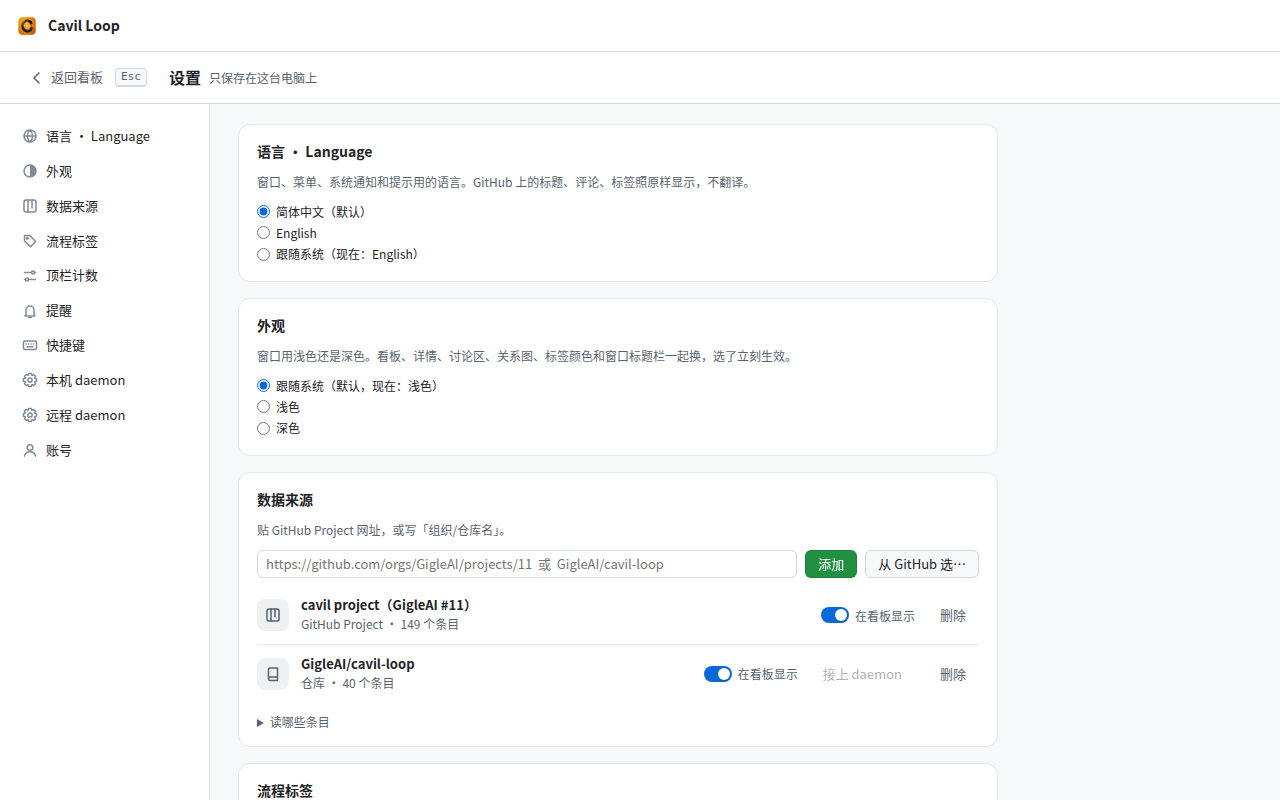
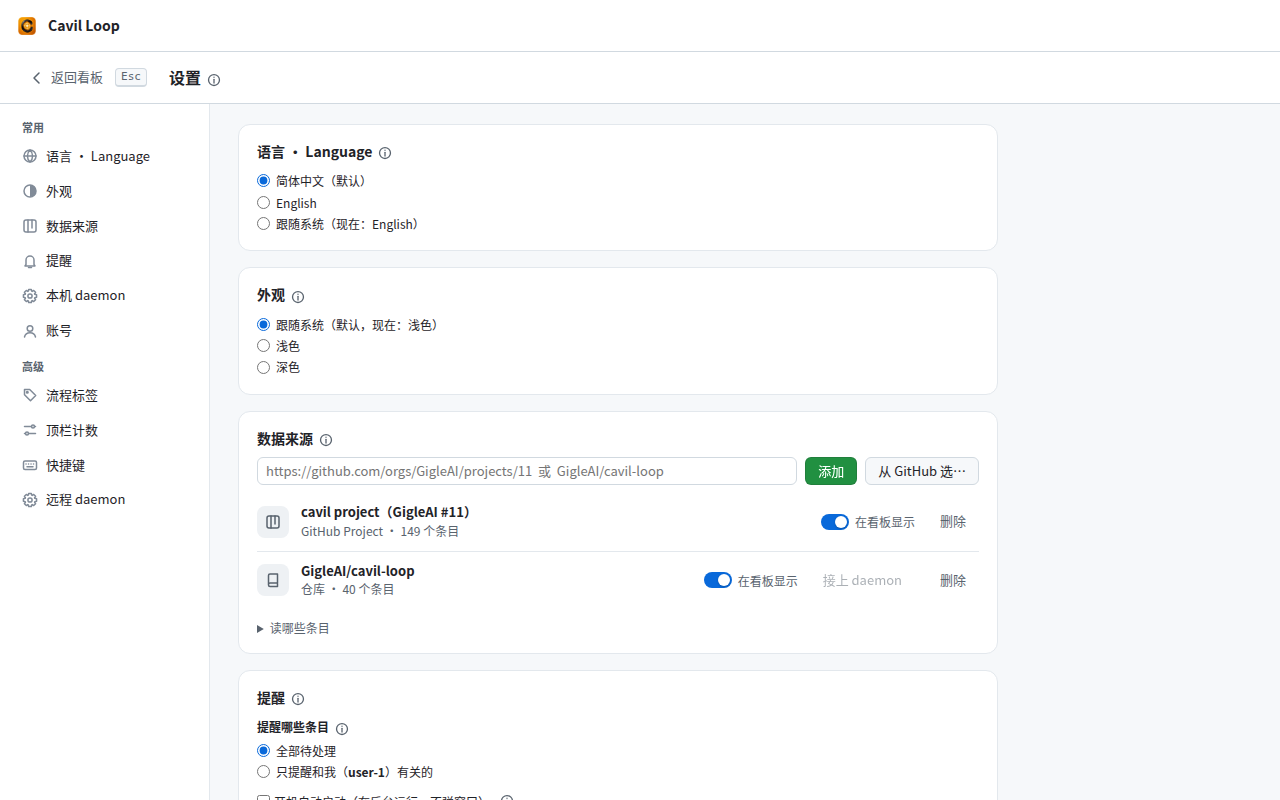
fix(settings): tip text in a portal so headings keep their own words; fold titles never wrap; specs unfold (#591)

diff --git a/client/test/e2e/app.spec.ts b/client/test/e2e/app.spec.ts
@@ -2142,7 +2142,7 @@ test('pending/human: nothing about the history at start, one notification per ne
   await expect(page.getByTestId('notification-keep-rule')).toHaveText('系统通知不会因为切到 App 而收起：打开哪一条（点它的通知，或在窗口里点开），就收起关于这一条的通知，其余留在通知中心。');
   await page.getByTestId('pending-settings').scrollIntoViewIfNeeded();
   await shot(page, '20b-pending-settings-unticked');
-  await expect(page.getByTestId('pending-settings')).toContainText('已关闭、已合并的也算');
+  await expect(page.getByTestId('pending-rule')).toContainText('已关闭、已合并的也算');
   await expect(page.getByTestId('pending-rule-full')).toContainText('已关闭、已合并的也提醒');
   await expect(page.getByTestId('pending-label')).toHaveText('pending/human');
   for (const gone of ['pending-list', 'pending-item', 'pending-count', 'unread-count', 'pending-breakdown']) await expect(page.getByTestId(gone)).toHaveCount(0);
@@ -3379,6 +3379,8 @@ test('GitHub#192: shortcuts — nothing before sign-in; global keys on every sig
   await expect(settings).toBeVisible();
   await shot(page, '61-settings-after-keys');
   // GitHub#369: in a text field the first Esc only leaves the field (which saves it), the second goes back
+  // (GitHub#591: the flow labels are a 高级 card — unfolded first)
+  await unfoldSettings(page);
   const agentLabel = page.getByTestId('hand-back-agent');
   const originalAgent = await agentLabel.inputValue();
   expect(originalAgent).not.toBe('');
@@ -3394,11 +3396,13 @@ test('GitHub#192: shortcuts — nothing before sign-in; global keys on every sig
   // saved when the field was left: reopened, the settings show it; then it is put back the same way
   await page.keyboard.press(`${MOD}+,`);
   await expect(settings).toBeVisible();
+  await unfoldSettings(page);
   await expect(page.getByTestId('hand-back-agent')).toHaveValue(`${originalAgent}X`);
   await page.getByTestId('hand-back-agent').fill(originalAgent);
   await page.getByTestId('hand-back-agent').blur();
   await page.getByTestId('back').click();
   await page.keyboard.press(`${MOD}+,`);
+  await unfoldSettings(page);
   await expect(page.getByTestId('hand-back-agent')).toHaveValue(originalAgent);
   // nothing focused: one Esc goes back to the board
   await blur(page);

diff --git a/client/src/renderer/InfoTip.tsx b/client/src/renderer/InfoTip.tsx
@@ -7,10 +7,12 @@
 // taken before the window's own Esc (leaving settings, closing the dialog) sees it.
 //
 // The tip is drawn by the window (not the system's `title` tooltip, which waits a second and is
-// out of reach of the keyboard and screen readers) in a fixed layer, so a dialog's scrolling
-// box does not clip it; it opens below the ⓘ and moves above / to the left when there is no room.
+// out of reach of the keyboard and screen readers) in a fixed layer at the end of the page (a
+// portal), so a dialog's scrolling box does not clip it and the heading or label it sits next to
+// keeps only its own words; it opens below the ⓘ and moves above / to the left when there is no room.
 
 import { useEffect, useId, useLayoutEffect, useRef, useState, type ReactNode } from 'react';
+import { createPortal } from 'react-dom';
 import { Icon } from './Icons';
 import { t } from '../shared/i18n';
 
@@ -103,6 +105,7 @@ export function InfoTip({ children, testid, textTestid, label }: { children: Rea
         <Icon name="info" size={14} />
       </button>
       {/* always in the page (the button's description for screen readers); shown only while open */}
+      {createPortal(
       <span
         ref={tip}
         id={id}
@@ -112,7 +115,9 @@ export function InfoTip({ children, testid, textTestid, label }: { children: Rea
         style={open && place ? { left: place.left, top: place.top } : undefined}
       >
         {children}
-      </span>
+      </span>,
+      document.body,
+      )}
     </span>
   );
 }

diff --git a/client/test/e2e/project-access.spec.ts b/client/test/e2e/project-access.spec.ts
@@ -12,6 +12,7 @@ import { join, dirname } from 'node:path';
 import { fileURLToPath } from 'node:url';
 import { startFakeGitHub } from '../fake-github/server';
 import { launchApp, closeEngine, type AppEnv } from './bridge';
+import { unfoldSettings } from './unfold';
 
 const root = join(dirname(fileURLToPath(import.meta.url)), '..', '..');
 const screens = join(root, 'test-results', 'screens');
@@ -176,12 +177,14 @@ test('an organisation that has not approved the app: the same explanation in the
 test('Client ID changed in Settings without signing in again: "打开 GitHub 授权页" still opens the page of the app this sign-in used', async () => {
   const page = await signIn();
   await page.getByTestId('open-settings').click();
+  await unfoldSettings(page);
   await page.locator('#set-login').getByTestId('oauth-settings-toggle').click();
   await page.locator('#set-login').getByTestId('client-id').fill('Ov23liAnotherApp');
   await page.locator('#set-login').getByTestId('save-client-id').click();
   await page.getByTestId('back').click();
   // the save really happened: Settings now holds the other app's ID for the next sign-in
   await page.getByTestId('open-settings').click();
+  await unfoldSettings(page);
   if ((await page.locator('#set-login').getByTestId('client-id').count()) === 0) await page.locator('#set-login').getByTestId('oauth-settings-toggle').click();
   await expect(page.locator('#set-login').getByTestId('client-id')).toHaveValue('Ov23liAnotherApp');
   await page.getByTestId('back').click();

diff --git a/client/src/renderer/styles.css b/client/src/renderer/styles.css
@@ -1119,7 +1119,7 @@ button.info-tip:hover, button.info-tip.on { color: var(--accent); background: va
 .info-tip-text.on b, .info-tip-text.on code { color: inherit; }
 /* a fold that holds the less used settings of a group or a card */
 button.fold-toggle { min-height: 0; padding: 6px 0; border: none; background: transparent; color: var(--muted); font-weight: 400; font-size: 12px; gap: 6px; justify-content: flex-start; max-width: 100%; white-space: normal; text-align: left; }
-button.fold-toggle b { color: var(--fg); font-weight: 600; }
+button.fold-toggle b { color: var(--fg); font-weight: 600; white-space: nowrap; flex: none; }
 button.fold-toggle .icon { flex: none; transition: transform 0.15s; transform: rotate(-90deg); }
 button.fold-toggle[aria-expanded='true'] .icon { transform: none; }
 button.fold-toggle:hover b { color: var(--accent); }

diff --git a/client/src/renderer/ProjectConfigDialog.tsx b/client/src/renderer/ProjectConfigDialog.tsx
@@ -506,7 +506,7 @@ function Row({
         </b>
         {/* GitHub#591: the explanation behind an ⓘ; what the line's state is (not in the file) stays in sight */}
         {f.help && (
-          <InfoTip testid="config-help">
+          <InfoTip testid={`config-help-${f.name}`}>
             <Verbatim from="daemon">{f.help}</Verbatim>
           </InfoTip>
         )}
